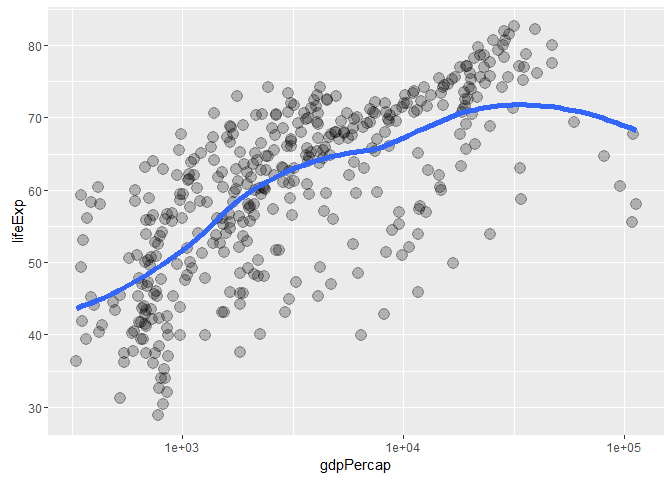
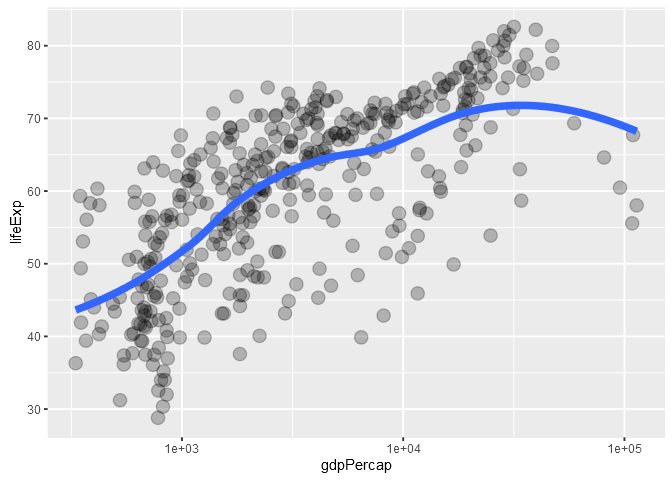
fixed antialiasing issue for hw2

diff --git a/hw02_explore-gapminder-dplyr/hw02_explore_gapminder_dplyr.md b/hw02_explore-gapminder-dplyr/hw02_explore_gapminder_dplyr.md
@@ -1,7 +1,7 @@
 hw02\_explore-gapminder-dplyr
 ================
 Gokul Raj Suresh Kumar
-2016-10-03
+2016-10-18
 
 Explore Gapminder with dplyr
 ============================
